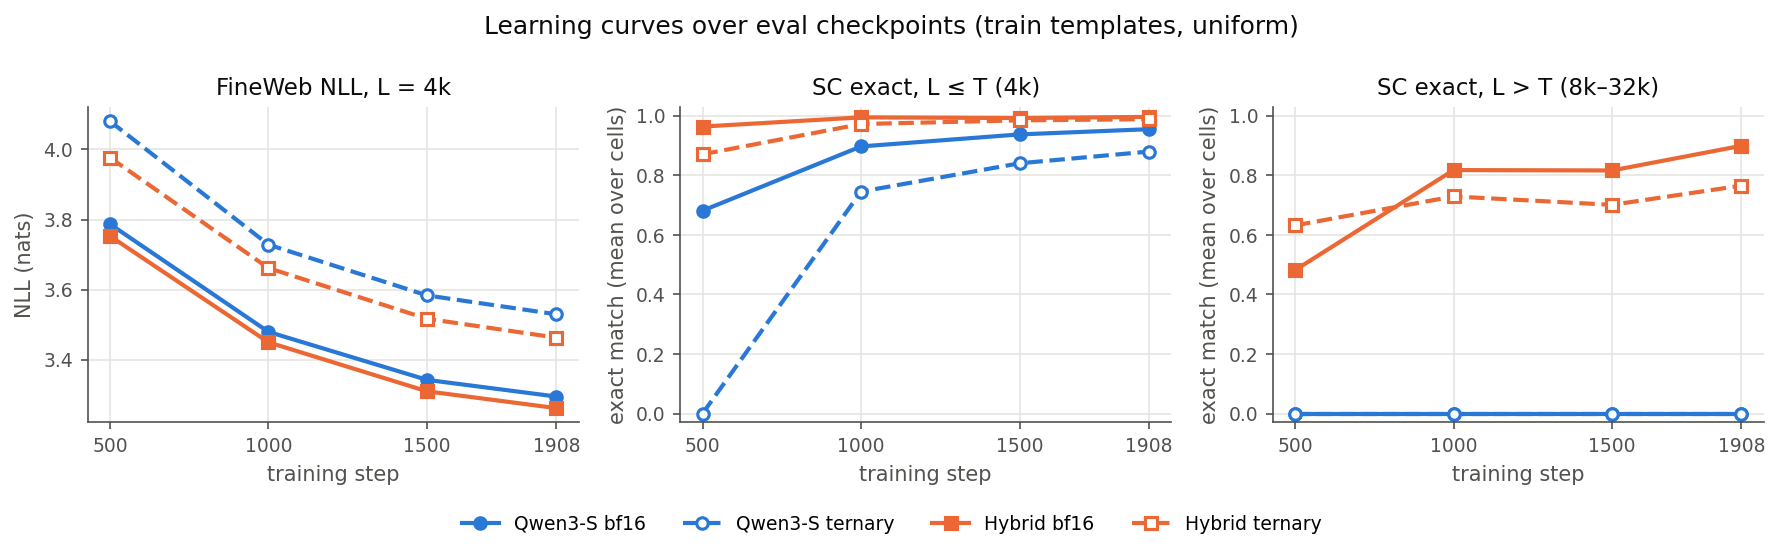
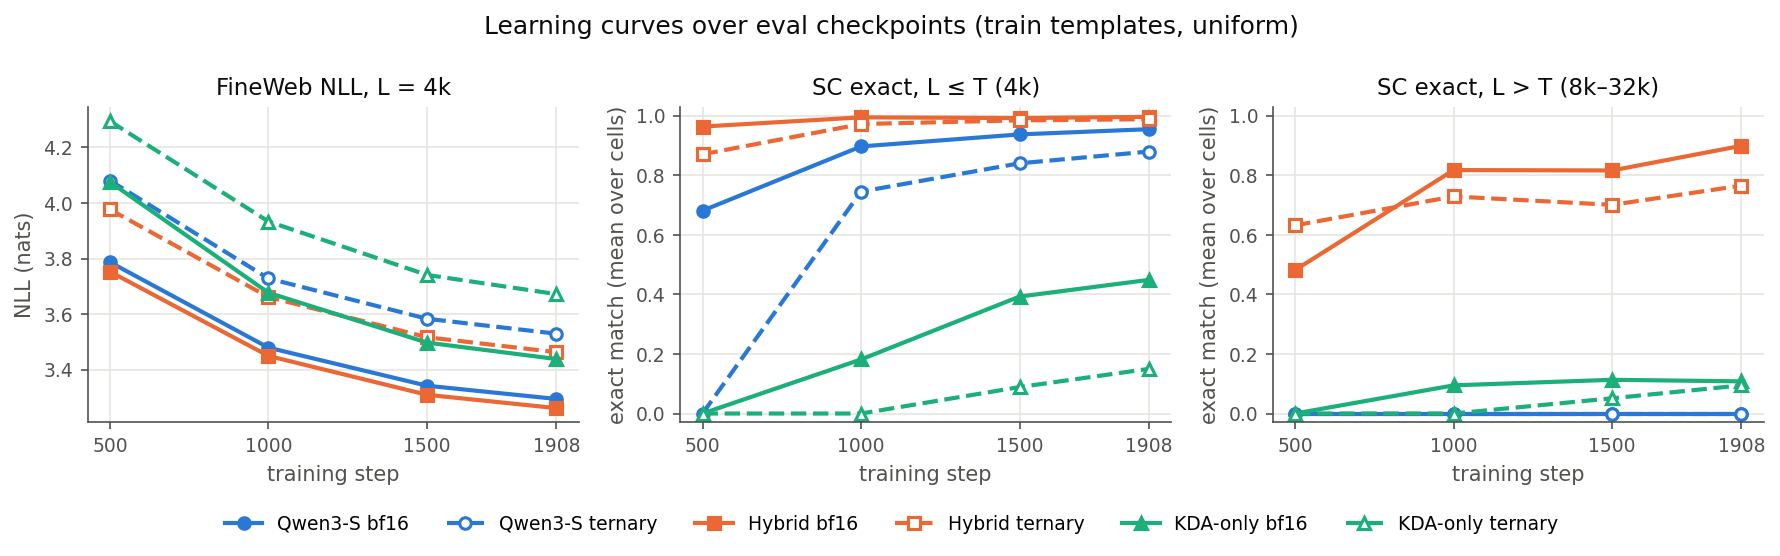
[docs] chore: add the KDA-only arm to the attention vs KDA write-up
Third architecture (all 12 mixers KDA, 75.17M non-embedding) in bf16 and
ternary, same recipe and evals: parameter budget, NLL / selective copy /
templates / training-loss tables, a KDA-only section (capacity-limited
copying), RULER rows and findings (no keyed retrieval at any length),
throughput (inconclusive benchmark), caveats and reproduce commands. All
figures regenerated with six runs.

diff --git a/fineweb_1B_syn_select_copy_attn_kda_tern.md b/fineweb_1B_syn_select_copy_attn_kda_tern.md
@@ -1,10 +1,13 @@
-# Attention vs KDA hybrid, bf16 vs ternary (FineWeb-Edu + selective copy, 1B tokens)
+# Attention vs KDA hybrid vs KDA only, bf16 vs ternary (FineWeb-Edu + selective copy, 1B tokens)
 
-Four runs at equal parameters, data, tokens and recipe: **Qwen3-S** (12 full-attention layers, RoPE) and
-**Qwen3-S-Hybrid** (9 Kimi Delta Attention layers + 3 full-attention layers without positional encoding), each in
-**bf16** and with **ternary (TWN) weights** trained by QAT. The Qwen3-S pair is the one in
-[`initial_baseline.md` → Ternary vs bf16](initial_baseline.md#ternary-vs-bf16-cap512-data-1b-tokens); the hybrid pair
-is new. Full log: `~/diary/2026-10-19-hybrid-kda.md`.
+Six runs at equal parameters, data, tokens and recipe: three architectures, each in **bf16** and with **ternary
+(TWN) weights** trained by QAT.
+- **Qwen3-S**: 12 full-attention layers with RoPE. This pair is the one in
+  [`initial_baseline.md` → Ternary vs bf16](initial_baseline.md#ternary-vs-bf16-cap512-data-1b-tokens).
+- **Qwen3-S-Hybrid**: 9 Kimi Delta Attention (KDA) layers and 3 full-attention layers without positional encoding.
+- **Qwen3-S-KDA (KDA only)**: all 12 layers KDA, no attention anywhere.
+
+The hybrid and KDA-only pairs are new. Full log: `~/diary/2026-10-19-hybrid-kda.md`.
 
 Selective-copy (SC) numbers use **training templates, uniform placement** unless stated, as in the baseline write-up.
 
@@ -28,6 +31,14 @@ Selective-copy (SC) numbers use **training templates, uniform placement** unless
   but the hybrid keeps it past T: niah_single_1 is 100 at 8k and 99 at 16k (Qwen3-S: 7 and 0), and the 13-task
   average past T is 8.7 vs 0.6. Ternary costs the hybrid much less retrieval than it costs Qwen3-S (13-task average
   within T: 18.7 vs 8.3). See [RULER](#ruler).
+- **KDA alone is not enough: the 3 attention layers carry exact recall.** Without them (KDA only), NLL within T is
+  worse than either attention model (3.438 vs 3.262 hybrid / 3.295 Qwen3-S, bf16) and RULER is ≈ 0 at every length,
+  including single-needle retrieval at 1k. The copy task is barely learned: its train SC loss never collapses
+  (the attention models drop below 1 nat by step 330–590) but declines slowly to ≈ 1.6 nats, and ternary KDA-only
+  stays above 3.9. Its copying shows a fixed-state capacity
+  limit: exact match 0.98 at n = 8 within T, at most 0.55 at n = 64, 0 from n = 128 on (bf16). What KDA alone does keep is
+  length robustness: NLL rises only 0.15 from 4k to 64k, the flattest of the three. See
+  [KDA only](#kda-only-no-attention-layer).
 - **The hybrid is slower per token at this size,** despite 21% fewer nominal FLOPs per token: 55.3k vs 62.6k
   tokens/s per GPU (bf16) and MFU 6.8% vs 8.7%. Likely kernel overhead at this small width (448-dim KDA
   projections, 7 heads); not profiled.
@@ -40,9 +51,12 @@ Selective-copy (SC) numbers use **training templates, uniform placement** unless
 | Qwen3-S ternary | `qat_pair_1B/ternary` | `longctx-synth` @ `6bd6eeaf` | offline (`wandb/offline-run-20261018_231630-mvbg772y`) |
 | Hybrid bf16 | `hybrid_pair_1B/bf16` | `hybrid-cache` @ `746aab53` | [longctx/d1qe9avq](https://forge.coreweave.com/wandb/shumingh/longctx/runs/d1qe9avq) |
 | Hybrid ternary | `hybrid_pair_1B/ternary` | `hybrid-cache` @ `fd8aaa07` | [longctx/cpbyonao](https://forge.coreweave.com/wandb/shumingh/longctx/runs/cpbyonao) |
+| KDA-only bf16 | `kda_pair_1B/bf16` | `longctx-synth` @ `1387d511` | [longctx/abcwws6n](https://forge.coreweave.com/wandb/shumingh/longctx/runs/abcwws6n) |
+| KDA-only ternary | `kda_pair_1B/ternary` | `longctx-synth` @ `1387d511` | [longctx/z2l1j2ju](https://forge.coreweave.com/wandb/shumingh/longctx/runs/z2l1j2ju) |
 
 The two hybrid commits differ only in eval/metrics code (standalone kernel default, per-GPU tokens/s, MFU), not in
-the training path. All are merged into `longctx-synth` (`219b9a15`).
+the training path. All are merged into `longctx-synth` (`219b9a15`). The KDA-only commit adds its config and
+generation support for a cache without attention layers; its training path is the same KDA code.
 
 ## Model: Qwen3-S-Hybrid
 
@@ -58,24 +72,30 @@ the training path. All are merged into `longctx-synth` (`219b9a15`).
 | Kernels | flash-linear-attention **0.5.2** Triton: `chunk_kda` (training, forward + backward, varlen `cu_seqlens` so packed documents never share state), `fused_recurrent_kda` (inference inputs ≤ 64 tokens, forward only), FLA causal conv1d and gated RMSNorm. VeOmni ops `chunk_kda` / `fused_recurrent_kda` (`veomni/ops/kernels/kda/`), with an FP32 token-recurrence `eager` reference for tests. |
 | Generation | HF `DynamicCache` built from `layer_types`: a KV cache on the 3 attention layers; on the KDA layers, the recurrent state plus the last 4 inputs of each q/k/v conv. Padded positions have their KDA inputs zeroed, so left padding leaves the state at exactly zero (needed by RULER's `generate`). |
 
+**Qwen3-S-KDA (KDA only)**: the same model with all 12 layers KDA (`configs/model_configs/qwen/Qwen3-S-kda-only.json`,
+`layer_types` = 12 × `linear_attention`), so it has no attention layer and no positional information beyond causal
+order. Generation uses `Qwen3HybridCache`: a `DynamicCache` that counts the tokens it has seen, since HF `generate`
+reads the sequence length from an attention layer and this model has none.
+
 ### Parameter budget vs Qwen3-S
 
-| | Qwen3-S | Qwen3-S-Hybrid | difference |
+| | Qwen3-S | Qwen3-S-Hybrid | Qwen3-S-KDA (KDA only) |
 |---|---|---|---|
-| Mixer per layer | attention: 1,572,992 | KDA: 1,543,623 | −29,369 (−1.9%) |
-| Mixers replaced | — | 9 of 12 (layers 3, 7, 11 keep the identical attention) | −264k total |
-| MLPs, norms | identical | identical | 0 |
-| Embedding + untied lm_head | 233.4M | 233.4M | 0 |
-| **Non-embedding** | **75.52M** | **75.25M** | **−0.35%** |
-| Total | 308.89M | 308.63M | −0.09% |
-| Ternarized (QAT arms) | 75.5M in 84 matrices | 75.18M in 129 matrices | more, smaller matrices (low-rank gates, β) |
-| FLOPs per token (fwd + bwd, 4k docs) | 1.61 G | 1.27 G | −21% (quadratic attention on 3 layers, not 12) |
+| Mixer per layer | attention: 1,572,992 | KDA: 1,543,623 (−1.9%) | KDA: 1,543,623 (−1.9%) |
+| Mixers replaced | — | 9 of 12 (layers 3, 7, 11 keep the identical attention) | 12 of 12 |
+| MLPs, norms | identical | identical | identical |
+| Embedding + untied lm_head | 233.4M | 233.4M | 233.4M |
+| **Non-embedding** | **75.52M** | **75.25M (−0.35%)** | **75.17M (−0.47%)** |
+| Total | 308.89M | 308.63M (−0.09%) | 308.54M (−0.11%) |
+| Ternarized (QAT arms) | 75.5M in 84 matrices | 75.18M in 129 matrices | 75.07M in 144 matrices |
+| FLOPs per token (fwd + bwd, 4k docs) | 1.61 G | 1.27 G (−21%) | 1.16 G (−28%) |
 
 Attention mixer: q (768→768), k and v (768→256 each, 4 KV heads), o (768→768), q/k-norm. KDA mixer at head_dim 64
 (as attention): q/k/v/o at 7 × 64 = 448 dims, low-rank (64) forget and output gates, β projection, three width-4
 short convs, A_log, dt_bias. 7 heads is the closest match (−1.9%); 8 heads would be +11%. Checked by
-`tests/models/test_qwen3_hybrid.py::test_qwen3_s_hybrid_matches_qwen3_s_shape_and_params`. Parameters are matched;
-compute is not.
+`tests/models/test_qwen3_hybrid.py::test_qwen3_s_hybrid_matches_qwen3_s_shape_and_params`. Parameters are matched
+(the more, smaller ternarized matrices come from the low-rank gates and β); compute is not (quadratic attention on 12,
+3 or 0 layers).
 
 **Ternary (TWN QAT)** is the same recipe as the Qwen3-S ternary run (`veomni/ops/qat/ternary.py`). It applies to
 every hidden `nn.Linear`, here **129 matrices, 75.18M parameters**: q/k/v/o, b_proj and the low-rank f/g gate
@@ -94,13 +114,13 @@ the cap512 data of the ternary section) except for the model. Summary:
 
 | | |
 |---|---|
-| Config | `configs/text/longctx/qwen3_s_hybrid_T4096.yaml` (= `qwen3_s_T4096.yaml` + hybrid model, `kda_implementation: fla`, `no_decay_params: [A_log, dt_bias]`) |
+| Config | `configs/text/longctx/qwen3_s_hybrid_T4096.yaml` (= `qwen3_s_T4096.yaml` + hybrid model, `kda_implementation: fla`, `no_decay_params: [A_log, dt_bias]`); KDA only: `qwen3_s_kda_T4096.yaml` (same, KDA-only model) |
 | Data | `mix_fineweb_sc10.yaml`: FineWeb-Edu 90% + selective copy 10% of tokens (`train_T4096_cap512`: n_copy log-uniform 1..512, composed `nl2` templates), T = 4096, documents chunked at T |
 | Budget | 1,908 steps × 128 × 4096 = 1.0B tokens; 8× H200, FSDP2, bf16, full activation checkpointing, seed 42 |
 | Optimizer | Muon (lr 0.02, spectral √(d_out/d_in), 5-step quintic NS, wd 0) on hidden matrices; AdamW (lr 3e-3, wd 0.1) on embeddings / lm_head / norms / convs / A_log / dt_bias (the last two without decay); 1% warmup, cosine to 0.1× |
 | Precision arms | `--model.qat.weight none` (bf16) or `ternary_twn` |
 | Logging | wandb online (project `longctx`). Per-layer `grad_norm/layer_XX`, `act_rms/layer_XX`, `act_absmax/layer_XX` every 10 steps (`train.layer_stats`); `tokens_per_second_per_gpu`; `mfu` (hybrid FLOP model added in `b12d5ebd`) |
-| Runs | `~/runs/longctx/hybrid_pair_1B/run.sh` (ternary, 02:38–03:27) and `run2.sh` (bf16 05:58–06:41, then all merges and evals). bf16 ran with `FLA_CACHE_RESULTS=0` (fresh in-process autotune); ternary used the default on-disk autotune cache |
+| Runs | Hybrid: `~/runs/longctx/hybrid_pair_1B/run.sh` (ternary, 02:38–03:27) and `run2.sh` (bf16 05:58–06:41, then all merges and evals). bf16 ran with `FLA_CACHE_RESULTS=0` (fresh in-process autotune); ternary used the default on-disk autotune cache. KDA only: `~/runs/longctx/kda_pair_1B/run.sh` (2026-10-20, ternary 19:09–20:33, bf16 20:33–21:46, `FLA_CACHE_RESULTS=0`), with a foreign job sharing all 8 GPUs for most of training (losses unaffected; throughput not usable, see below) |
 
 ### Throughput (median over steps > 50; 8× H200, 0.5M tokens / step)
 
@@ -110,11 +130,20 @@ the cap512 data of the ternary section) except for the model. Summary:
 | Qwen3-S ternary | 1.26 | 59,198 | 0.082 |
 | Hybrid bf16 | 1.36 | 55,284 | 0.068 |
 | Hybrid ternary | 1.53 | 47,428 | ≈ 0.058 (not logged; scaled from bf16 by tokens/s) |
+| KDA-only bf16 / ternary | 2.28 / 2.62 (contended) | not measured cleanly (GPUs shared with a foreign job) | – |
 
 Nominal FLOPs per token (fwd + bwd, 4k documents): Qwen3-S 1.61 G, hybrid 1.27 G (quadratic attention term on 3
 layers instead of 12; KDA recurrence counted as 15·d_k·d_v·H per token, as for GatedDeltaNet). MFU uses each model's
 own FLOP count, so lower MFU at equal tokens/s means fewer FLOPs, not idle hardware. The hybrid ternary run's lower
 throughput may partly be the stale autotune cache (bf16 → `FLA_CACHE_RESULTS=0`, not a controlled comparison).
+
+**KDA-only throughput: inconclusive.** A back-to-back benchmark of the three bf16 models (60 steps each, same 4
+GPUs, `~/runs/longctx/throughput_bench/run.sh`, median of steps 21–60) gave 67.7k (Qwen3-S), 28.9k (hybrid) and
+28.6k (KDA only) tokens/s per GPU (MFU 0.094 / 0.035 / 0.033). The hybrid ran at half its clean 8-GPU rate
+(51–55k from step 5 on), and only the FLA-kernel models slowed. Foreign processes held memory on those GPUs
+throughout, which is the likely cause; we could not verify it. So the only result we take from it is that KDA-only
+and the hybrid run at the same speed under identical conditions. Nominal FLOPs per token are 1.16 G for KDA only
+vs 1.27 G for the hybrid. A clean 8-GPU rerun is needed for absolute numbers.
 
 ## Evaluation setup
 
@@ -135,27 +164,29 @@ and 1908.
 
 ### FineWeb-Edu held-out NLL
 
-| eval length L | Qwen3-S bf16 | Qwen3-S ternary | Hybrid bf16 | Hybrid ternary |
-|---|---|---|---|---|
-| 4k (= T) | 3.295 | 3.529 | **3.262** | 3.463 |
-| 8k | 3.386 | 3.607 | **3.321** | 3.517 |
-| 16k | 3.459 | 3.641 | **3.314** | 3.481 |
-| 32k | 3.791 | 3.891 | **3.418** | 3.545 |
-| 64k | 4.388 | 4.377 | **3.604** | 3.707 |
+| eval length L | Qwen3-S bf16 | Qwen3-S ternary | Hybrid bf16 | Hybrid ternary | KDA-only bf16 | KDA-only ternary |
+|---|---|---|---|---|---|---|
+| 4k (= T) | 3.295 | 3.529 | **3.262** | 3.463 | 3.438 | 3.672 |
+| 8k | 3.386 | 3.607 | **3.321** | 3.517 | 3.509 | 3.745 |
+| 16k | 3.459 | 3.641 | **3.314** | 3.481 | 3.466 | 3.701 |
+| 32k | 3.791 | 3.891 | **3.418** | 3.545 | 3.494 | 3.729 |
+| 64k | 4.388 | 4.377 | 3.604 | 3.707 | **3.592** | 3.821 |
 
 Mean over the whole sequence, step 1908. Over training (L = 4k):
 
-| step | Qwen3-S bf16 | Qwen3-S ternary | Hybrid bf16 | Hybrid ternary |
-|---|---|---|---|---|
-| 500 | 3.787 | 4.081 | 3.753 | 3.977 |
-| 1000 | 3.479 | 3.728 | 3.449 | 3.661 |
-| 1500 | 3.342 | 3.583 | 3.310 | 3.517 |
-| 1908 | 3.295 | 3.529 | 3.262 | 3.463 |
+| step | Qwen3-S bf16 | Qwen3-S ternary | Hybrid bf16 | Hybrid ternary | KDA-only bf16 | KDA-only ternary |
+|---|---|---|---|---|---|---|
+| 500 | 3.787 | 4.081 | 3.753 | 3.977 | 4.076 | 4.294 |
+| 1000 | 3.479 | 3.728 | 3.449 | 3.661 | 3.677 | 3.933 |
+| 1500 | 3.342 | 3.583 | 3.310 | 3.517 | 3.497 | 3.741 |
+| 1908 | 3.295 | 3.529 | 3.262 | 3.463 | 3.438 | 3.672 |
 
 ![NLL](fineweb_1B_syn_select_copy_attn_kda_tern_plots/nll.png)
 
 Per position (left), Qwen3-S's NLL turns up right after T and reaches ≈ 4.8 in the last bin (positions 32k–64k).
-The hybrid's rises by only ≈ 0.25 over the same range.
+The hybrid's rises by only ≈ 0.25 over the same range. KDA only is the flattest of all (mean NLL +0.15 from 4k to
+64k, vs +0.34 for the hybrid and +1.09 for Qwen3-S, bf16) but starts 0.18 nats behind the hybrid within T; it only
+matches the hybrid at 64k. Within T, KDA-only bf16 (3.438) sits between Qwen3-S bf16 (3.295) and ternary (3.529).
 
 ### Selective copy vs length
 
@@ -167,6 +198,10 @@ Exact match, mean over n_copy, step 1908:
 | Qwen3-S ternary | 0.98 | 0.98 | 0.97 | 0.91 | 0.65 | 0.00 | 0.00 | 0.00 |
 | Hybrid bf16 | 1.00 | 1.00 | 1.00 | 1.00 | 0.99 | **0.99** | **0.94** | **0.76** |
 | Hybrid ternary | 0.99 | 1.00 | 1.00 | 0.98 | 0.98 | **0.97** | **0.88** | **0.45** |
+| KDA-only bf16 | 0.61 | 0.50 | 0.44 | 0.38 | 0.41 | 0.30 | 0.02 | 0.00 |
+| KDA-only ternary | 0.21 | 0.17 | 0.15 | 0.12 | 0.13 | 0.12 | 0.08 | 0.08 |
+
+(KDA-only averages are low because cells with n ≥ 128 are 0; per-cell numbers are in [KDA only](#kda-only-no-attention-layer).)
 
 ![SC exact by length](fineweb_1B_syn_select_copy_attn_kda_tern_plots/sc_exact_by_len.png)
 
@@ -206,7 +241,8 @@ spacing the ternary model drops further, so ternary hurts holding item order acr
 ![SC capacity](fineweb_1B_syn_select_copy_attn_kda_tern_plots/sc_capacity.png)
 
 At L = 4k the hybrids keep exact ≥ 0.92 up to n = 512, while Qwen3-S ternary falls to 0.52. At 8k and 16k only the
-hybrids copy at all.
+hybrids copy at all, apart from KDA-only bf16 at small n (0.85 at n = 8, L = 8k). KDA only has the opposite failure
+to Qwen3-S: it does not break with length but with the number of items. See below.
 
 ### Seen vs held-out prompt templates
 
@@ -216,6 +252,8 @@ hybrids copy at all.
 | Qwen3-S ternary | **0.90** | **0.90** | **0.87** | **0.82** | 0.56 | 0.00 | 0.00 | 0.00 |
 | Hybrid bf16 | 0.70 | 0.71 | 0.69 | 0.67 | 0.65 | 0.68 | 0.63 | 0.50 |
 | Hybrid ternary | 0.68 | 0.67 | 0.67 | 0.67 | 0.67 | 0.68 | 0.60 | 0.28 |
+| KDA-only bf16 | 0.27 | 0.20 | 0.15 | 0.13 | 0.17 | 0.13 | 0.02 | 0.00 |
+| KDA-only ternary | 0.13 | 0.09 | 0.08 | 0.07 | 0.08 | 0.06 | 0.04 | 0.03 |
 
 ![SC templates](fineweb_1B_syn_select_copy_attn_kda_tern_plots/sc_templates.png)
 
@@ -235,6 +273,36 @@ The hybrid learns the copy task earlier. Its train SC loss first drops below 1 n
 (bf16 / ternary) vs 0.0068 / 0.0244 for Qwen3-S. Final FineWeb channel loss is 3.241 / 3.437 vs 3.273 / 3.503: the
 bf16 runs are close, and the ternary gap is smaller for the hybrid.
 
+KDA only learns the copy task late or not at all. KDA-only bf16's SC loss never shows the sharp collapse the
+attention models have; it declines slowly from step ~750 to ≈ 1.6 nats at the end (single logs dip to 0.94). KDA-only ternary never gets below 3.9 nats (chance over the 2,048-word
+lexicon is 7.6). Its final FineWeb channel loss is 3.368 / 3.593 (bf16 / ternary), 0.13 / 0.16 above the hybrid.
+
+### KDA only (no attention layer)
+
+Exact match per cell, step 1908 (bf16 / ternary):
+
+| n_copy | 256 | 512 | 1k | 2k | 4k | 8k | 16k | 32k |
+|---|---|---|---|---|---|---|---|---|
+| 8 | 0.99 / 0.64 | 1.00 / 0.67 | 0.98 / 0.76 | 0.98 / 0.73 | 0.98 / 0.80 | 0.85 / 0.70 | 0.09 / 0.49 | 0.00 / 0.50 |
+| 32 | 0.76 / 0.00 | 0.83 / 0.00 | 0.84 / 0.00 | 0.93 / 0.01 | 0.91 / 0.00 | 0.68 / 0.01 | 0.06 / 0.00 | 0.00 / 0.00 |
+| 64 | 0.09 / 0.00 | 0.16 / 0.00 | 0.40 / 0.00 | 0.37 / 0.00 | 0.55 / 0.00 | 0.27 / 0.00 | 0.00 / 0.00 | 0.00 / 0.00 |
+| 128 – 512 | 0 in every cell | | | | | | | |
+
+Token accuracy at L = 4k (bf16 / ternary): 1.00 / 0.97 (n = 8), 1.00 / 0.86 (32), 0.99 / 0.64 (64),
+0.94 / 0.32 (128), 0.69 / 0.12 (256), 0.29 / 0.04 (512). First-item accuracy is 0.70–1.00 in every cell for bf16 and
+0.57–0.99 for ternary (lowest at large n and short L).
+
+- **A capacity limit, not a length limit.** The first word is found almost always, but how many words in order can
+  be read back is bounded. Per-word accuracy falls with n at every length, as it would if the 7 KDA heads' [64 × 64]
+  states held a limited number of word associations. Attention layers, which keep every token, have no such bound
+  within T: the hybrid is ≥ 0.98 at n = 512.
+- **Ternary shrinks that capacity.** Ternary KDA-only copies n = 8 at 0.64–0.80 and nothing beyond n = 8 (token
+  accuracy 0.32 at n = 128 vs 0.94 for bf16). Oddly, its n = 8 exact match holds at 16k–32k (0.49–0.50) where bf16
+  falls to 0.00–0.09. One seed; not investigated.
+- **Exact match rises with L at fixed n within T** (n = 64: 0.09 at L = 256 → 0.55 at 4k; n = 32: 0.76 → 0.91). At short L the words are packed
+  densely and each word's association competes with its neighbours'; with more filler between items they are
+  stored more separably. Our reading; not tested.
+
 ## RULER
 
 The standard keyed-retrieval benchmark (13 tasks, `veomni.eval.ruler`) on the same prompts the Qwen3-S checkpoints
@@ -243,8 +311,10 @@ decoding, upstream scoring). Setup and task descriptions are in
 [`initial_baseline.md` → RULER](initial_baseline.md#ruler); the Qwen3-S rows are those runs. The hybrid checkpoints
 ran through the same `eval_ruler.py` command, with HF `generate`, sdpa for the attention layers, and FLA kernels
 plus the generation cache for KDA (`~/runs/longctx/ruler/run_ruler_hybrid.sh`, about 10 min per checkpoint on 8×
-H200, like Qwen3-S). Since the Qwen3-S runs, the eval code only gained an explicit `use_cache=True` and the
-`qwen3_hybrid` model-type registration; prompts and scoring are unchanged.
+H200, like Qwen3-S). The KDA-only checkpoints ran the same command from `~/runs/longctx/kda_pair_1B/run.sh`, on 4
+GPUs (a foreign job held the other 4; RULER is data-parallel over independent prompts, so results do not depend on
+the GPU count). Since the Qwen3-S runs, the eval code only gained an explicit `use_cache=True`, the `qwen3_hybrid`
+model-type registration and the attention-free generation cache; prompts and scoring are unchanged.
 
 #### 13-task average (%), step 1908
 
@@ -254,6 +324,8 @@ H200, like Qwen3-S). Since the Qwen3-S runs, the eval code only gained an explic
 | Qwen3-S ternary | 14.1 | 7.2 | 3.6 | 0.3 | 0.2 | 0.0 | 0.0 |
 | Hybrid bf16 | **27.7** | **22.8** | **19.3** | **16.4** | **9.3** | **6.2** | **2.8** |
 | Hybrid ternary | 20.4 | 19.2 | 16.4 | 14.1 | 7.8 | 2.7 | 1.1 |
+| KDA-only bf16 | 0.5 | 0.6 | 0.7 | 0.4 | 0.5 | 0.3 | 0.4 |
+| KDA-only ternary | 0.1 | 0.3 | 0.4 | 0.2 | 0.3 | 0.3 | 0.3 |
 | Qwen3-0.6B-Base (reference, trained to 32k) | 90.4 | 83.9 | 79.9 | 72.4 | 66.8 | 58.9 | – |
 
 #### Tasks that score above the floor (%, L = 1k / 2k / 4k / 8k / 16k / 32k / 64k), step 1908
@@ -267,8 +339,9 @@ H200, like Qwen3-S). Since the Qwen3-S runs, the eval code only gained an explic
 | niah_multivalue | 22/21/22/2/0/0/0 | 16/8/8/0/0/0/0 | 23/24/17/12/4/0/0 | 23/23/22/18/1/0/0 |
 | fwe | 4/3/1/4/3/2/0 | 1/0/2/0/0/0/0 | 1/1/2/1/0/0/0 | 7/7/9/13/12/8/8 |
 
-The other 7 tasks (multikey_2/3, multiquery, VT, CWE, QA ×2) are ≤ 16% for every model at every length (full
-per-task table: `~/runs/longctx/ruler/hybrid_vs_qwen3_tables.md`).
+The other 7 tasks (multikey_2/3, multiquery, VT, CWE, QA ×2) are ≤ 16% for every model at every length. KDA only
+scores **0 on all 8 NIAH tasks at every length** in both precisions; its only non-zero scores are ≤ 5% on FWE and
+QA (full per-task table for all six runs: `~/runs/longctx/ruler/three_arch_tables.md`).
 
 #### Over training (13-task average %; niah_single_1 %)
 
@@ -278,6 +351,8 @@ per-task table: `~/runs/longctx/ruler/hybrid_vs_qwen3_tables.md`).
 | Qwen3-S ternary | 1000 / 1500 / 1908 | 2.2 / 5.8 / 8.3 | 0.4 / 0.8 / 0.1 | 2 / 8 / 16 | 0 / 0 / 0 |
 | Hybrid bf16 | 1000 / 1500 / 1908 | 23.9 / 22.2 / 23.3 | 5.4 / 9.8 / 8.7 | 95 / 100 / 100 | 74 / 99 / 99 |
 | Hybrid ternary | 1000 / 1500 / 1908 | 11.4 / 15.5 / 18.7 | 4.7 / 7.0 / 6.4 | 74 / 99 / 97 | 57 / 91 / 80 |
+| KDA-only bf16 | 1000 / 1500 / 1908 | 0.3 / 0.4 / 0.6 | 0.1 / 0.2 / 0.4 | 0 / 0 / 0 | 0 / 0 / 0 |
+| KDA-only ternary | 1000 / 1500 / 1908 | 0.1 / 0.2 / 0.3 | 0.1 / 0.2 / 0.3 | 0 / 0 / 0 | 0 / 0 / 0 |
 
 At step 500 every model's 13-task average is ≤ 5.0 at every length.
 
@@ -306,6 +381,11 @@ At step 500 every model's 13-task average is ≤ 5.0 at every length.
   selective copy, where ternary mostly costs long-gap item order.
 - **Retrieval appears by step 1000 for the hybrid** (bf16 single_1 at 16k: 74 at step 1000, 99 at 1500), and is
   stable or slightly down from 1500 to 1908 (32k: 75 at 1908).
+- **KDA only cannot do keyed retrieval at all.** It scores 0 on niah_single_1 even at 1k, at every checkpoint.
+  Its answers are not near misses. On niah_single_1 at 1k it starts with the wrong digit straight from the prompt
+  (prefill, before any cache is used) and then degenerates ("10000000…"), where the hybrid copies the 7-digit value
+  exactly. Its selective-copy first-item accuracy is ≥ 0.70, so it can retrieve within the trained format; finding
+  a value by its key in prose is what needs the attention layers, even 3 of them.
 - Oddity: hybrid ternary is the only model above the floor on FWE (frequent-words extraction, 7–13% at every
   length). One seed; not investigated.
 
@@ -313,6 +393,11 @@ At step 500 every model's 13-task average is ≤ 5.0 at every length.
 - One seed per arm and a single 1B-token budget at 75M non-embedding parameters.
 - The Qwen3-S pair ran at commit `6bd6eeaf` (offline wandb, no per-layer stats); the hybrid pair at `fd8aaa07` /
   `746aab53`. The training recipe is identical; only the logging differs.
+- The KDA-only pair ran at `1387d511`. A foreign job (another container) shared all 8 GPUs during most of its training
+  and occupied 4 of them during its evals, so its evals and RULER ran on 4 GPUs. Results are unaffected: contention changes
+  speed, not the computation (beyond which kernel configs autotuning picks), and evals are data-parallel over
+  independent sequences; its logged throughput is not
+  usable, hence the separate benchmark.
 - Throughput: the hybrid ternary run used FLA's on-disk autotune cache (possibly tuned while GPUs were shared); the
   hybrid bf16 run used `FLA_CACHE_RESULTS=0`. The Qwen3-S runs used no FLA kernels.
 - Selective copy and NLL are teacher-forced (SC exact match: every answer token is the argmax given the correct
@@ -321,9 +406,9 @@ At step 500 every model's 13-task average is ≤ 5.0 at every length.
 ## Reproduce
 
 ```bash
-cd ~/VeOmni-longctx    # longctx-synth >= 219b9a15
+cd ~/VeOmni-longctx    # longctx-synth >= 1387d511
 export PYTHONPATH=$PWD:~/envs/fla-0.5.2 FLA_TILELANG=0 FLA_CACHE_RESULTS=0
-# train one hybrid arm (ternary: --model.qat.weight ternary_twn)
+# train one hybrid arm (ternary: --model.qat.weight ternary_twn; KDA only: configs/text/longctx/qwen3_s_kda_T4096.yaml)
 torchrun --nproc_per_node 8 tasks/train_text.py configs/text/longctx/qwen3_s_hybrid_T4096.yaml \
   --model.qat.weight none --data.train_size 1000000000 --train.checkpoint.save_steps 500 \
   --train.checkpoint.output_dir ~/runs/longctx/hybrid_pair_1B/bf16 --train.wandb.name hybrid_pair_1B_bf16
@@ -338,9 +423,13 @@ python scripts/longctx/plot_compare_runs.py --out_dir fineweb_1B_syn_select_copy
   --run "Qwen3-S bf16" ~/runs/longctx/qat_pair_1B/bf16 "#2a78d6" solid o \
   --run "Qwen3-S ternary" ~/runs/longctx/qat_pair_1B/ternary "#2a78d6" dashed o \
   --run "Hybrid bf16" ~/runs/longctx/hybrid_pair_1B/bf16 "#eb6834" solid s \
-  --run "Hybrid ternary" ~/runs/longctx/hybrid_pair_1B/ternary "#eb6834" dashed s
+  --run "Hybrid ternary" ~/runs/longctx/hybrid_pair_1B/ternary "#eb6834" dashed s \
+  --run "KDA-only bf16" ~/runs/longctx/kda_pair_1B/bf16 "#1baf7a" solid ^ \
+  --run "KDA-only ternary" ~/runs/longctx/kda_pair_1B/ternary "#1baf7a" dashed ^
 ```
-The whole pair (both arms, merges, evals) is `~/runs/longctx/hybrid_pair_1B/run.sh` followed by `run2.sh`.
+The whole hybrid pair (both arms, merges, evals) is `~/runs/longctx/hybrid_pair_1B/run.sh` followed by `run2.sh`;
+the KDA-only pair, including RULER, is `~/runs/longctx/kda_pair_1B/run.sh` (`NPROC` / `CUDA_VISIBLE_DEVICES` select
+the GPUs). The throughput benchmark is `~/runs/longctx/throughput_bench/run.sh`.
 RULER (same prompts and command as the Qwen3-S runs; `~/runs/longctx/ruler/run_ruler_hybrid.sh` for all 8 hybrid
 checkpoints):
 ```bash
@@ -350,5 +439,6 @@ torchrun --nproc_per_node 8 scripts/longctx/ruler/eval_ruler.py --model_path <ru
 # RULER figures + tables: add to the plot_compare_runs.py command above
   --only_ruler --ruler "$R/pair_bf16_s{step}/results.json" "$R/pair_ternary_s{step}/results.json" \
   "$R/hyb_bf16_s{step}/results.json" "$R/hyb_ternary_s{step}/results.json" \
+  "$R/kda_bf16_s{step}/results.json" "$R/kda_ternary_s{step}/results.json" \
   --ruler_ref "Qwen3-0.6B-Base" $R/qwen3_0.6b_base/results.json      # R=~/runs/longctx/ruler
 ```
